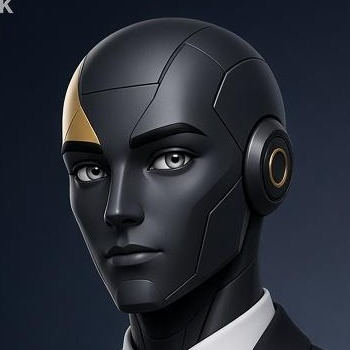
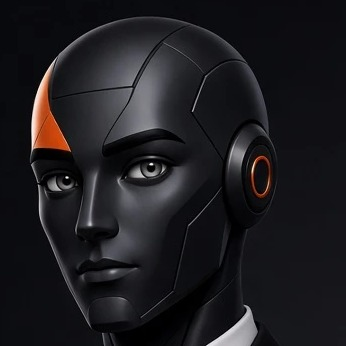
feat: the orange ArkAgent and Ark Team characters; plan pictures; desktop test fixes
- Replaces the gold ArkAgent poster with the v3 (orange) one the owner chose, kept unaltered, and adds
  the Ark Team roster (eight roles) the same way. brand/render-icons.mjs cuts the ArkAgent portrait,
  the eight role faces and a four-face picture from them.
- The Plan screen shows ArkAgent's portrait beside the ArkAgent plan and the team faces beside Ark Team
  and Ark Team Enterprise.
- The desktop loads the portrait by URL, which the bundler resolves and a test does not try to parse.
- Two bin tests exercised the removed Claude and ChatGPT plan sign-ins and failed on every platform in CI;
  they now assert that Start refuses them without running anything.

Claude-Session: https://claude.ai/code/session_01MevBaR55qtrscWtNt7ptJp

diff --git a/brand/brand.test.ts b/brand/brand.test.ts
@@ -187,18 +187,48 @@ describe("the icons", () => {
     }
   });
 
-  test("the ArkAgent character's portrait is the same picture in all three places", () => {
-    const poster = read("brand", "arkagent", "arkagent-poster.jpg");
-    // A JPEG starts with the bytes FF D8, and the poster is the owner's, unaltered, 768 by 1152.
-    expect([poster[0], poster[1]]).toEqual([0xff, 0xd8]);
+  test("the characters' crops are the same pictures wherever they are used", () => {
+    const isJpeg = (bytes: Buffer) => bytes[0] === 0xff && bytes[1] === 0xd8;
+    // WebP is a RIFF file whose form type, at bytes 8 to 11, reads "WEBP". These are the owner's own
+    // pictures, kept as supplied.
+    for (const original of [
+      ["brand", "arkagent", "arkagent-poster.webp"],
+      ["brand", "arkteam", "arkteam-roster.webp"],
+    ]) {
+      const bytes = read(...original);
+      expect(bytes.subarray(0, 4).toString("latin1")).toBe("RIFF");
+      expect(bytes.subarray(8, 12).toString("latin1")).toBe("WEBP");
+    }
     const portrait = read("brand", "arkagent", "portrait.jpg");
-    expect([portrait[0], portrait[1]]).toEqual([0xff, 0xd8]);
+    expect(isJpeg(portrait)).toBe(true);
     expect(
       read("app", "public", "brand", "arkagent-portrait.jpg").equals(portrait),
     ).toBe(true);
     expect(
       read("desktop", "src", "assets", "arkagent-portrait.jpg").equals(
         portrait,
+      ),
+    ).toBe(true);
+    const roles = [
+      "sales",
+      "marketing",
+      "accounting",
+      "inventory-and-logistics",
+      "finance",
+      "chief-of-operations",
+      "chief-of-staff",
+      "front-desk",
+    ];
+    for (const role of roles) {
+      const face = read("brand", "arkteam", "roles", `${role}.jpg`);
+      expect(isJpeg(face)).toBe(true);
+      expect(
+        read("app", "public", "brand", "team", `${role}.jpg`).equals(face),
+      ).toBe(true);
+    }
+    expect(
+      read("app", "public", "brand", "team", "faces.jpg").equals(
+        read("brand", "arkteam", "team-faces.jpg"),
       ),
     ).toBe(true);
   });

diff --git a/app/src/routes/_authed/settings/plan.tsx b/app/src/routes/_authed/settings/plan.tsx
@@ -362,6 +362,17 @@ function PlanPage() {
   );
 }
 
+/**
+ * The picture beside each plan, from the company's characters (brand/README.md): ArkAgent's own for the
+ * plan that is one digital employee, and the Ark Team roster for the plans that run many. A plan with
+ * no entry (the internal one is never listed) simply has no picture.
+ */
+const PLAN_PICTURE: Record<string, string> = {
+  agent: "/brand/arkagent-portrait.jpg",
+  team: "/brand/team/faces.jpg",
+  enterprise: "/brand/team/faces.jpg",
+};
+
 function PlanRow({
   busy,
   current,
@@ -375,8 +386,14 @@ function PlanRow({
   plan: PlanOffer;
   selfService: boolean;
 }) {
+  const picture = PLAN_PICTURE[plan.id];
   return (
     <Item size="sm">
+      {picture ? (
+        <ItemMedia variant="image">
+          <img alt="" src={picture} />
+        </ItemMedia>
+      ) : null}
       <ItemContent>
         <ItemTitle>
           {plan.name}

diff --git a/desktop/src/Portrait.tsx b/desktop/src/Portrait.tsx
@@ -1,4 +1,7 @@
-import portrait from "./assets/arkagent-portrait.jpg";
+// A URL rather than an import: the bundler copies the file and names it here, and a test (which has no
+// bundler) gets a plain address instead of trying to read a picture as code.
+const portrait = new URL("./assets/arkagent-portrait.jpg", import.meta.url)
+  .href;
 
 /**
  * The ArkAgent character, as the face beside the product's name. Cropped from the poster the company

diff --git a/desktop/src-tauri/src/main.rs b/desktop/src-tauri/src/main.rs
@@ -6525,6 +6525,18 @@ fn main() {
             "root":root, "apiUrl":"https://intelligence.example.test", "gatewayWsUrl":"wss://gateway.example.test",
             "apiKey":"synthetic-intelligence-key", "model":model, "harness":choice,
         })).expect_err("intentional migration barrier prevents host/DB startup");
+        if case.ends_with("-plan") {
+            // The chat-plan sign-ins were removed (docs/ark/04-llm-providers.md). Start refuses one in a
+            // sentence, before it writes a setting or runs a service, so this case now says so.
+            let said = problem["said"].as_str().unwrap_or_default();
+            assert!(said.contains("cannot be connected by plan"), "{problem:?}");
+            let commands = std::fs::read_to_string(&record).unwrap_or_default();
+            assert!(
+                !commands.contains(" up -d "),
+                "nothing was started: {commands}"
+            );
+            return;
+        }
         let commands = std::fs::read_to_string(&record).unwrap_or_default();
         assert!(
             problem["detail"]
@@ -6661,20 +6673,16 @@ fn main() {
     }
 
     #[test]
-    fn chatgpt_plan_harness_start_ipc_overrides_remote_choice() {
-        if crate::test_support::isolated_process(
-            "tests::chatgpt_plan_harness_start_ipc_overrides_remote_choice",
-        ) {
+    fn chatgpt_plan_start_is_refused() {
+        if crate::test_support::isolated_process("tests::chatgpt_plan_start_is_refused") {
             return;
         }
         harness_start_ipc_case("chatgpt-plan");
     }
 
     #[test]
-    fn claude_plan_harness_start_ipc_overrides_remote_choice() {
-        if crate::test_support::isolated_process(
-            "tests::claude_plan_harness_start_ipc_overrides_remote_choice",
-        ) {
+    fn claude_plan_start_is_refused() {
+        if crate::test_support::isolated_process("tests::claude_plan_start_is_refused") {
             return;
         }
         harness_start_ipc_case("claude-plan");

diff --git a/brand/README.md b/brand/README.md
@@ -24,24 +24,29 @@ the letterhead and the quotation and invoice templates (they are the company's o
 product's), and the PDF guide (it is the company's to keep; the rules that matter to the product are
 summarised below).
 
-## The ArkAgent character
+## The characters
 
-On 2026-10-09 the owner supplied a poster of the product's character: a dark humanoid in a black suit with
-a headset and gold accents, with the line "Your business AI assistant" and four promises (trusted, insightful,
-efficient, professional). It is **the face of ArkAgent**, the product's own persona. The coworkers a person
-creates keep their own orbs.
+The owner supplied two pieces of artwork on 2026-10-09, both in the v3 (Ember) colours: black figures in black
+suits with a headset and ember-orange accents, wearing the BlackArk tile as a lapel pin.
 
-- `arkagent/arkagent-poster.jpg` is kept exactly as supplied (768 by 1152).
-- `render-icons.mjs` crops the head and shoulders into `arkagent/portrait.jpg` and copies it to
-  `app/public/brand/` and `desktop/src/assets/`. It is shown beside the name on the desktop's Welcome screen
-  and on the web app's welcome and terms screens, where the animated orb was.
-- **Two things on the poster are not the current identity, so only the figure is used.** Its logo ("BlackArk.uk
-  BUSINESS AI" with a gold "B") is the retired v2 mark, and its gold is the retired v2 accent; v3 (Ember)
-  replaced both on 2026-10-04. The character's own gold details (the head plate, the headset ring, the pocket
-  square) were left as drawn. If the company wants them recoloured ember to match v3, that is a change to the
-  artwork, not to the code.
-- Its words are usable as store-listing copy once the owner approves them: "Intelligent. Reliable.
-  Professional.", "Your business AI assistant", "Intelligent AI. Real business impact."
+- **ArkAgent** (`arkagent/arkagent-poster.webp`, unaltered, 864 by 1152). One digital employee, shown as the
+  Sales character. It is the face of the product: the head and shoulders are cut from it into
+  `arkagent/portrait.jpg` and shown beside the name on the desktop's Welcome screen, on the web app's welcome
+  and terms screens (where the animated orb was) and beside the ArkAgent plan on the Plan screen.
+- **Ark Team** (`arkteam/arkteam-roster.webp`, unaltered, 1280 by 720). The full digital roster of eight roles:
+  Sales, Marketing, Accounting, Inventory and logistics, Finance ("Named person approves."), Chief of
+  operations, Chief of staff and Front desk. Each is cut into `arkteam/roles/<role>.jpg`, and four together
+  into `arkteam/team-faces.jpg`, which stands for Ark Team (and Ark Team Enterprise) on the Plan screen.
+  The website's list has nine roles; the roster has eight, so the ninth has no picture yet.
+
+`render-icons.mjs` makes every crop from the originals and copies them to `app/public/brand/` (and
+`desktop/src/assets/`). The coworkers a person creates keep their own orbs; these characters are the
+products' faces, not coworkers. The wording on the posters is the company's own product copy and can be used
+for store listings once the owner approves it: "One digital employee", "Runs a written routine", "A person
+keeps judgment", "Hands off outside the procedure", "Built to transform. Built to distribute."
+
+An earlier poster the owner sent the same day (the same figure in gold, with the retired v2 logo) was replaced
+by these and is not kept.
 
 ## The rules that matter for the product
 

diff --git a/docs/ark/21-desktop-demo.md b/docs/ark/21-desktop-demo.md
@@ -89,6 +89,12 @@ Checked, here:
   the globe, falls back to the company's tile with no WebGL, and shows one still frame under "reduce
   motion". Its tests and the window's own (148) pass.
 
+The first two runs on GitHub (macOS, Windows and Linux) found three real problems that nothing run on Linux
+could have: the Windows job's PowerShell did not expand a variable the build-version step used (now bash), a
+macOS-only test still listed the services without the hub, and two tests still expected the removed Claude and
+ChatGPT plan sign-ins to start (they now assert the refusal). In the same runs the app, the macOS disk image
+(its version and ad-hoc signature verified), the Windows installer and the Linux package all built.
+
 Not checked, and the first real run will say:
 
 - **macOS has never been cross-checked from here** (the toolchain needs Apple's SDK), so the CI run is the first
